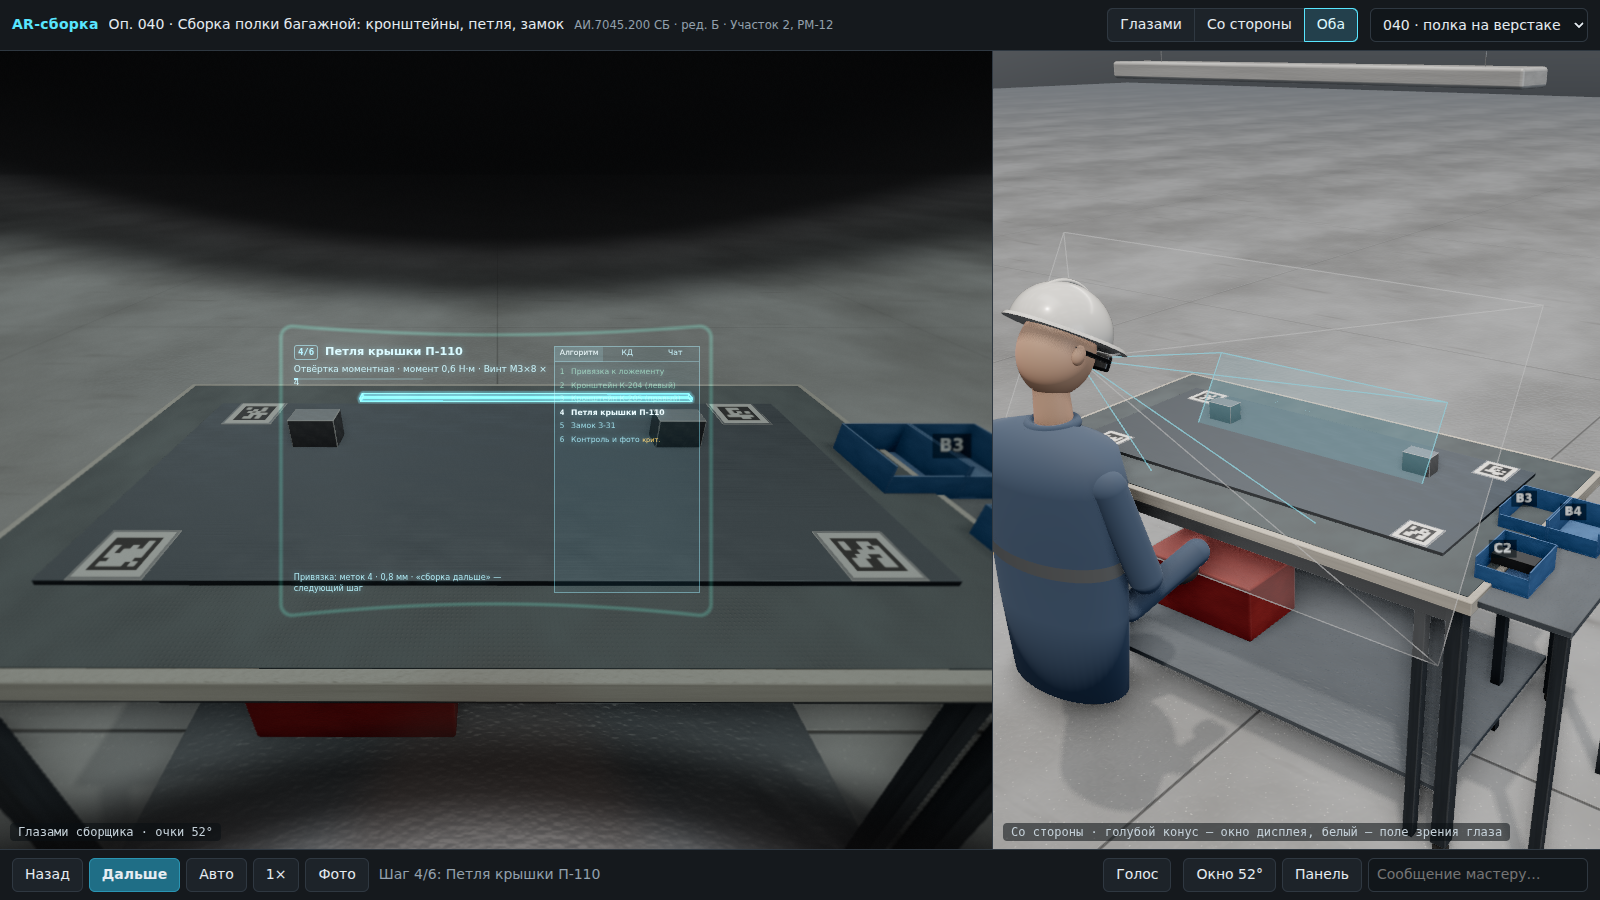
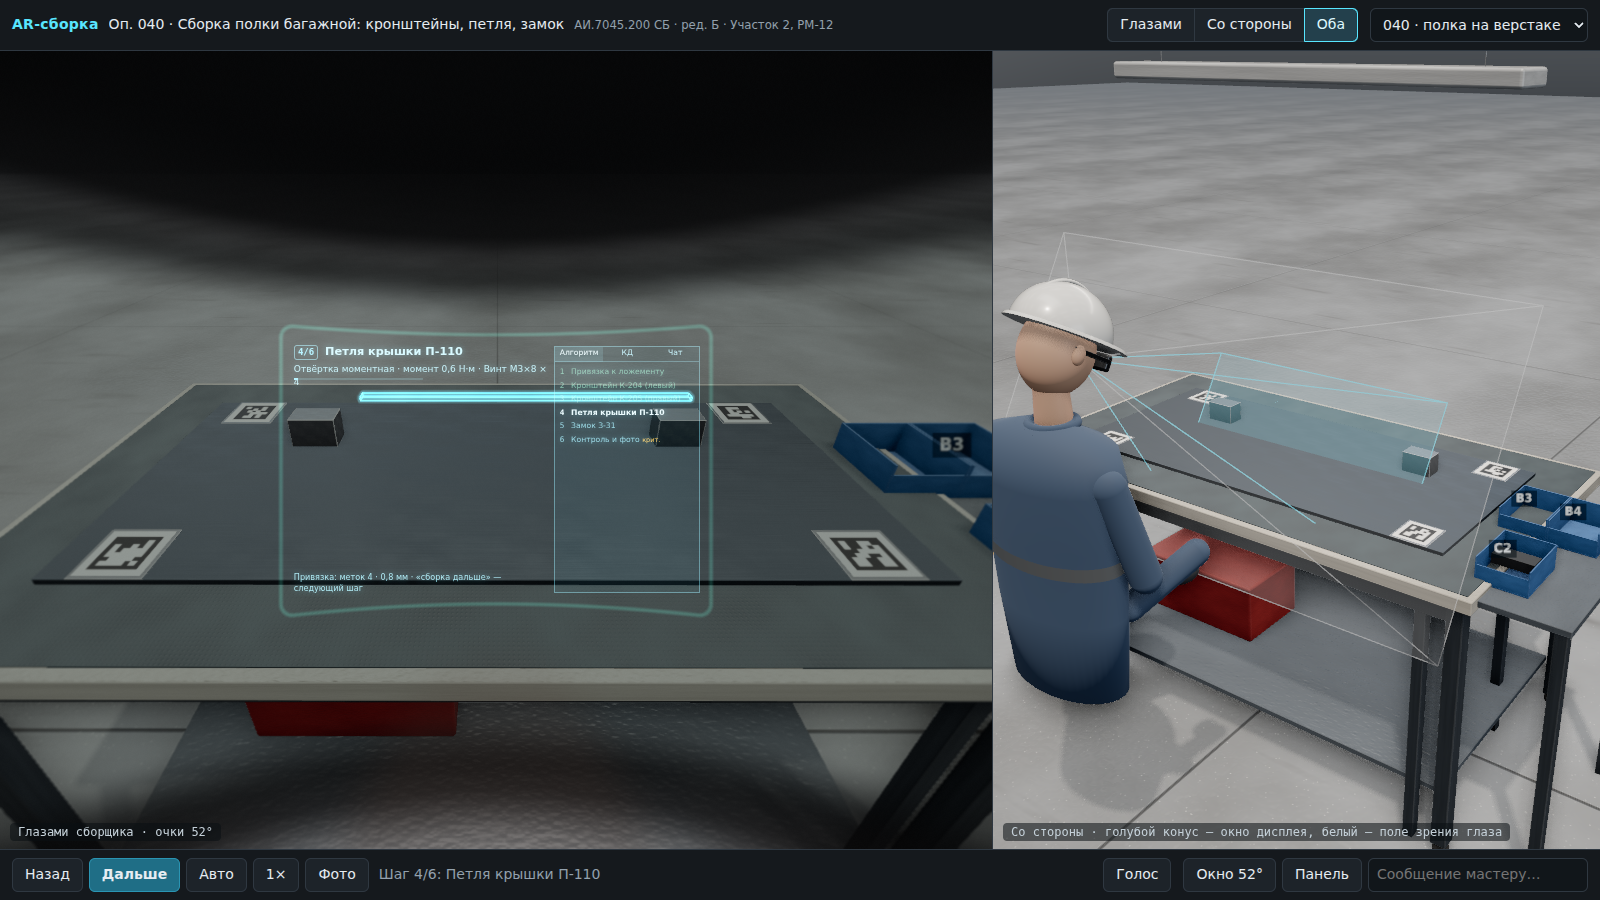
pkg2: параметры в #метках для встроенного просмотра, защита от NaN в постобработке
Claude-Session: https://claude.ai/code/session_01ATmuaTAJpXmhN8Zge3AUM3

diff --git a/pkg2-demo-web/src/engine/composite.js b/pkg2-demo-web/src/engine/composite.js
@@ -14,6 +14,16 @@ import { LAYER_HOLO, LAYER_LABEL, LAYER_REAL } from './holo.js';
  * → тональная компрессия и sRGB (OutputPass). quality: 'high' — всё, 'low' — без AO и bloom (слабая графика).
  * AO считается по отдельной камере-двойнику только со слоем реальности: голограммы, подписи и конусы его не портят.
  */
+// Защита от NaN/Inf: битая нормаль в чужом GLB даёт NaN в одном пикселе, а bloom и размытие растаскивают его на весь кадр.
+const Sanitize = {
+  uniforms: { tDiffuse: { value: null } },
+  vertexShader: 'varying vec2 vUv; void main(){ vUv = uv; gl_Position = projectionMatrix * modelViewMatrix * vec4(position,1.0); }',
+  fragmentShader: `uniform sampler2D tDiffuse; varying vec2 vUv;
+  void main(){ vec4 c = texture2D(tDiffuse, vUv);
+    if (any(isnan(c)) || any(isinf(c))) c = vec4(0.0, 0.0, 0.0, 1.0);
+    gl_FragColor = vec4(min(c.rgb, vec3(64.0)), c.a); }`,
+};
+
 export class PhotoChain {
   constructor(renderer, scene, camera, { quality = 'high' } = {}) {
     this.camera = camera;
@@ -21,6 +31,7 @@ export class PhotoChain {
     this.composer.addPass(new RenderPass(scene, camera));
     this.aoCam = camera.clone();
     if (quality !== 'low') {
+      this.composer.addPass(new ShaderPass(Sanitize));
       this.ao = new GTAOPass(scene, this.aoCam, 4, 4);
       this.ao.updateGtaoMaterial({ radius: 0.22, distanceExponent: 1.4, thickness: 1.2, scale: 1.1, samples: 16, distanceFallOff: 1 });
       this.ao.updatePdMaterial({ lumaPhi: 10, depthPhi: 2, normalPhi: 3, radius: 6, rings: 2, samples: 16 });
@@ -80,6 +91,7 @@ const Shader = {
     float ecc = length(a - gaze);
     float r = uBlur * smoothstep(22.0, 72.0, ecc) * 3.2 * (res.y / 900.0);
     vec3 col = texture2D(tDiffuse, vUv).rgb;
+    if (any(isnan(col))) col = vec3(0.0);
     if (r > 0.35) { vec3 acc = col; for (int i = 0; i < 12; i++) acc += texture2D(tDiffuse, vUv + P[i] * r / res).rgb; col = acc / 13.0; }
     float l = dot(col, vec3(0.299, 0.587, 0.114));
     col = mix(col, vec3(l), uBlur * 0.25 * smoothstep(34.0, 72.0, ecc));

diff --git a/pkg2-demo-web/src/main.js b/pkg2-demo-web/src/main.js
@@ -17,6 +17,14 @@ import './style.css';
 
 const OPS = { '040': 'op040_shelf_bench.json', '070': 'op070_bin_fuselage.json' };
 const q = new URLSearchParams(location.search);
+// те же параметры короткими метками в #: #op070-eye-step4-auto-low (для страниц, где адресная строка недоступна)
+for (const t of location.hash.slice(1).split(/[-_.~]/).filter(Boolean)) {
+  if (/^op\d{3}$/.test(t)) q.set('op', t.slice(2));
+  else if (['eye', 'side', 'split'].includes(t)) q.set('view', t);
+  else if (/^step\d+$/.test(t)) q.set('step', t.slice(4));
+  else if (t === 'auto' || t === 'full') q.set(t, '1');
+  else if (t === 'low' || t === 'high') q.set('quality', t);
+}
 const opId = OPS[q.get('op')] ? q.get('op') : '040';
 const ui = {
   view: ['eye', 'side', 'split'].includes(q.get('view')) ? q.get('view') : 'split',
@@ -161,7 +169,8 @@ async function main() {
   $('val').addEventListener('keydown', (e) => { if (e.key === 'Enter') $('valOk').click(); e.stopPropagation(); });
   $('chatForm').onsubmit = (e) => { e.preventDefault(); const t = $('chatIn').value.trim(); if (t) { hud.chat('Вы', t, true); reply(); } $('chatIn').value = ''; };
   $('chatIn').addEventListener('keydown', (e) => e.stopPropagation());
-  $('opSel').onchange = (e) => { q.set('op', e.target.value); q.delete('step'); location.search = q.toString(); };
+  $('opSel').onchange = (e) => { location.hash = `op${e.target.value}-${ui.view}${ui.quality === 'low' ? '-low' : ''}`; };
+  addEventListener('hashchange', () => location.reload());
   document.querySelectorAll('[data-view]').forEach((b) => { b.onclick = () => { ui.view = b.dataset.view; syncUi(); }; });
   const voice = createBrowserListener(([cmd, v], text) => { $('heard').textContent = `«${text}»`; command(cmd, v); }, (t) => { $('heard').textContent = `«${t}»`; });
   $('btnVoice').onclick = () => {

diff --git a/pkg2-demo-web/README.md b/pkg2-demo-web/README.md
@@ -36,6 +36,7 @@ GLB-заглушки и условные листы КД делает `cd ../pkg
 | Осмотреться | перетаскивание в левом виде, двойной щелчок — сброс | | |
 
 Параметры адреса: `?op=040|070&view=eye|side|split&step=4&auto=1&full=1&panel=0&quality=high|low`.
+То же короткими метками после `#` (если адресная строка недоступна, например во встроенном просмотре): `#op070-eye-step4-auto-low`.
 
 ## Фотореалистичный вид
 Сцена рендерится физически корректно (PBR), без внешних текстур — всё генерируется в браузере, демо работает офлайн:
